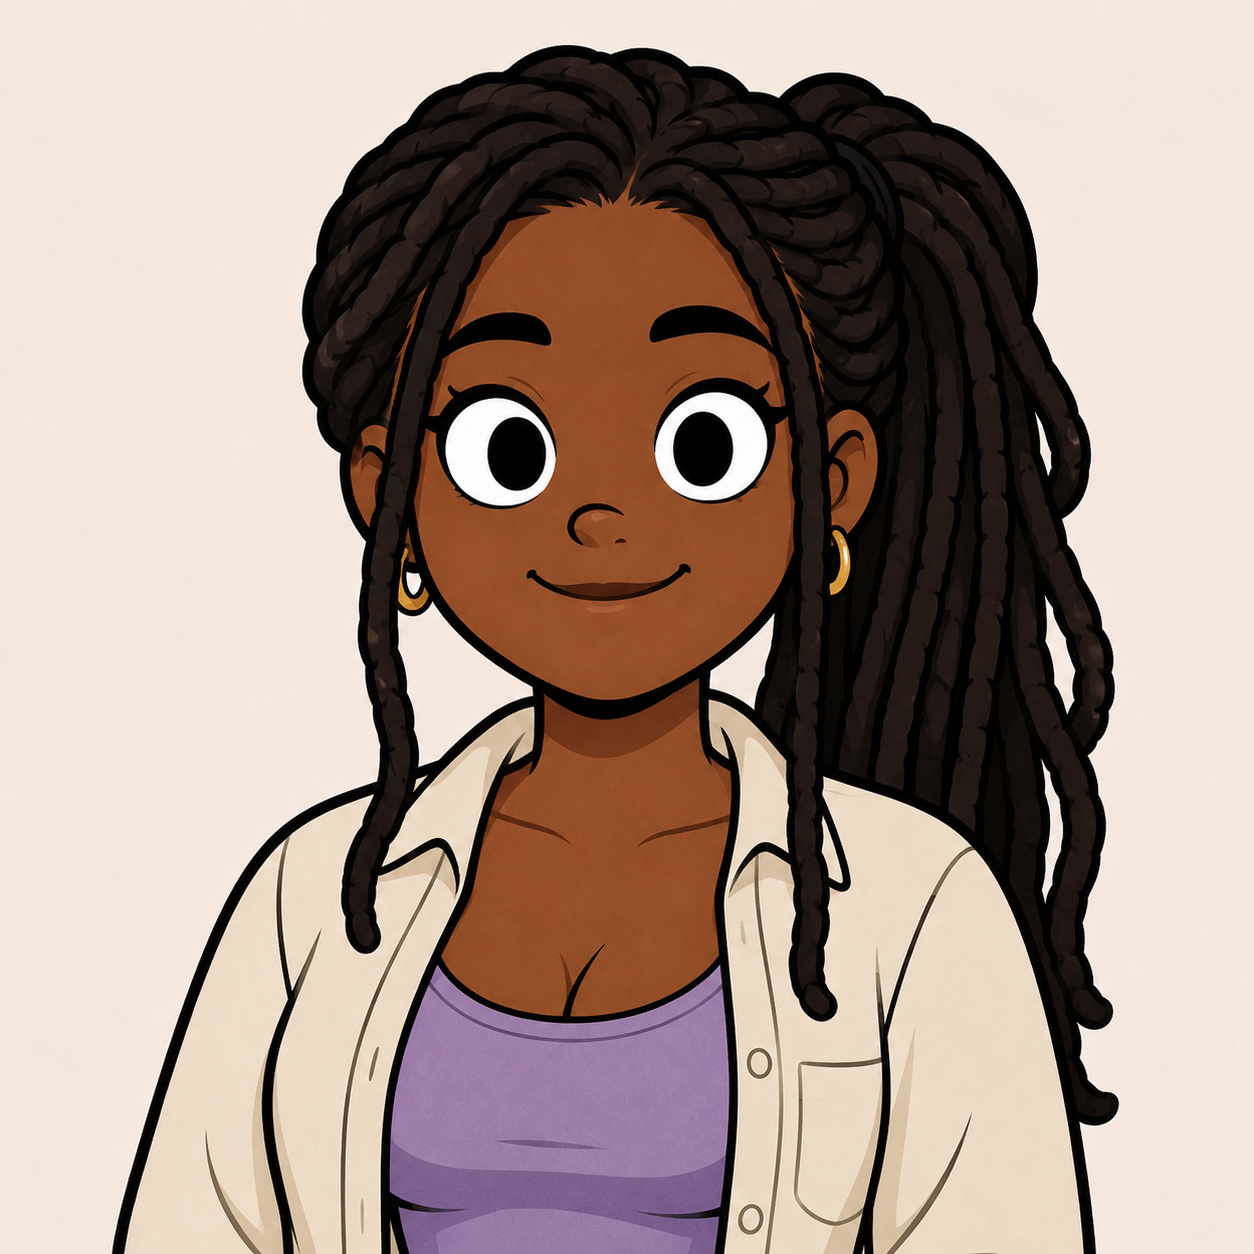
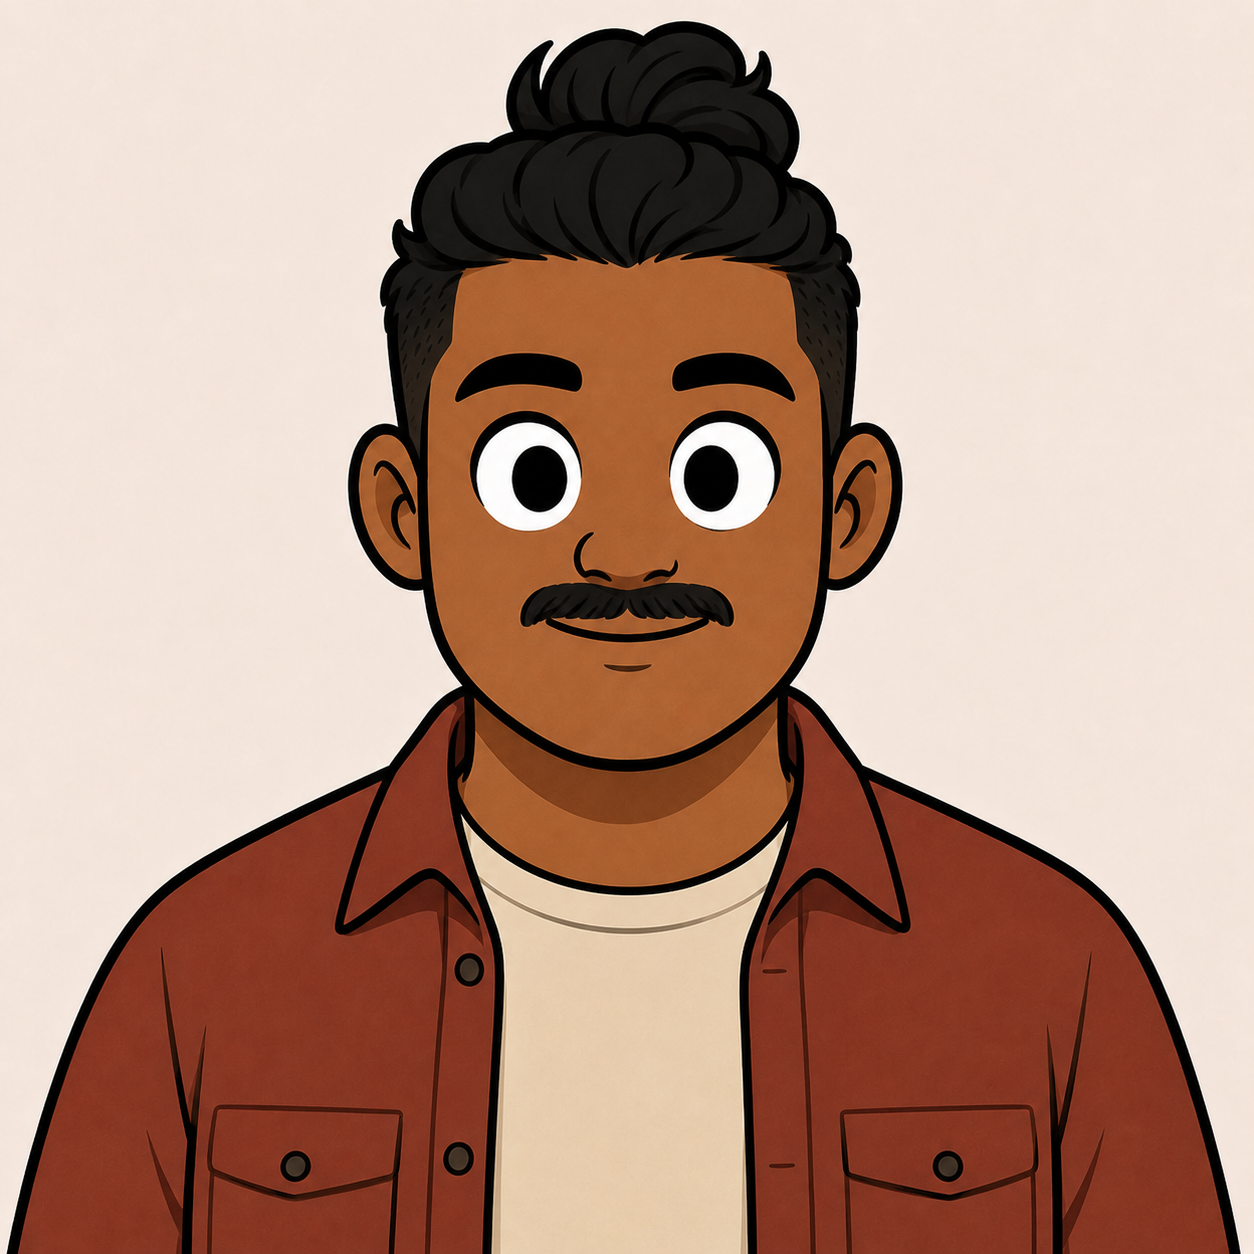
updated upload button to be a portrait placeholder

diff --git a/src/components/CharacterCreationPage.tsx b/src/components/CharacterCreationPage.tsx
@@ -191,13 +191,13 @@ export function CharacterCreationPage() {
       <div className="fixed inset-0 z-50 overflow-y-auto bg-gradient-to-br from-slate-50 via-white to-blue-50">
         <div className="min-h-full flex items-center justify-center p-4 py-10 sm:py-14">
           <div className="relative w-full max-w-4xl bg-white rounded-3xl shadow-xl ring-1 ring-slate-200/60 p-6 sm:p-10 md:p-14">
-            <button
+            {/* <button
               type="button"
               onClick={() => setAdminSetupOpen(true)}
               className="absolute top-4 right-4 sm:top-6 sm:right-6 text-xs font-semibold text-slate-500 hover:text-blue-600 px-3 py-1.5 rounded-lg border border-slate-200 hover:border-blue-300 transition-colors"
             >
               {copy.adminSetup}
-            </button>
+            </button> */}
 
             <div className="text-center">
               <span className="inline-block text-xs font-semibold tracking-[0.2em] uppercase text-blue-600">
@@ -211,24 +211,19 @@ export function CharacterCreationPage() {
               </p>
             </div>
 
-            <button
-              type="button"
-              onClick={() => {
-                setPhotoError(null);
-                setIsPhotoModalOpen(true);
-              }}
-              className="mt-4 w-full inline-flex items-center justify-center gap-2 px-6 py-3 rounded-xl border-2 border-dashed border-slate-300 text-slate-600 font-semibold text-sm hover:border-blue-400 hover:text-blue-600 transition-colors"
-            >
-              {copy.pick.uploadButton}
-            </button>
-
-            <div className="mt-8 flex items-center gap-3">
-              <div className="h-px flex-1 bg-slate-200" />
-              <span className="text-xs font-medium text-slate-400">{copy.pick.uploadDividerLabel}</span>
-              <div className="h-px flex-1 bg-slate-200" />
-            </div>
-
             <div className="mt-10 grid grid-cols-2 sm:grid-cols-4 gap-4">
+              <button
+                type="button"
+                onClick={() => {
+                  setPhotoError(null);
+                  setIsPhotoModalOpen(true);
+                }}
+                className={cardClass(false)}
+              >
+                <div className="w-full aspect-square bg-gray-50 border-2 border-dashed border-slate-300 rounded-lg flex items-center justify-center text-sm font-semibold text-slate-600 px-3 text-center hover:border-blue-400 hover:text-blue-600 transition-colors">
+                  {copy.pick.uploadButton}
+                </div>
+              </button>
               {CHARACTER_HEADSHOTS.map((headshot) => (
                 <button
                   key={headshot.id}

diff --git a/src/types/designerQuestionnaire.ts b/src/types/designerQuestionnaire.ts
@@ -19,7 +19,7 @@ export const DESIGNER_CONTENT_QUESTIONS: Record<DesignerQuestionFrameType, Desig
   ],
   Problem: [
     { id: 'prob-frustrating',  text: '[Pain Point] What was most frustrating about this experience?', phase: 'generation' },
-    { id: 'prob-difficult',    text: '[Problem] What made it difficult for you to accomplish what you wanted? What caused this problem?', phase: 'generation' },
+    { id: 'prob-difficult',    text: '[Cause] What made it difficult for you to accomplish what you wanted? What caused this problem?', phase: 'generation' },
     // { id: 'prob-familiarity',  text: 'How familiar does this visualized image feel to your experience? What stands out as similar and different from your experience?', phase: 'content' }
   ],
   Action: [

diff --git a/src/data/characterHeadshots.ts b/src/data/characterHeadshots.ts
@@ -3,7 +3,7 @@ export type CharacterHeadshot = {
   image: string;
 };
 
-const HEADSHOT_COUNT = 12;
+const HEADSHOT_COUNT = 11;
 
 export const CHARACTER_HEADSHOTS: CharacterHeadshot[] = Array.from(
   { length: HEADSHOT_COUNT },
